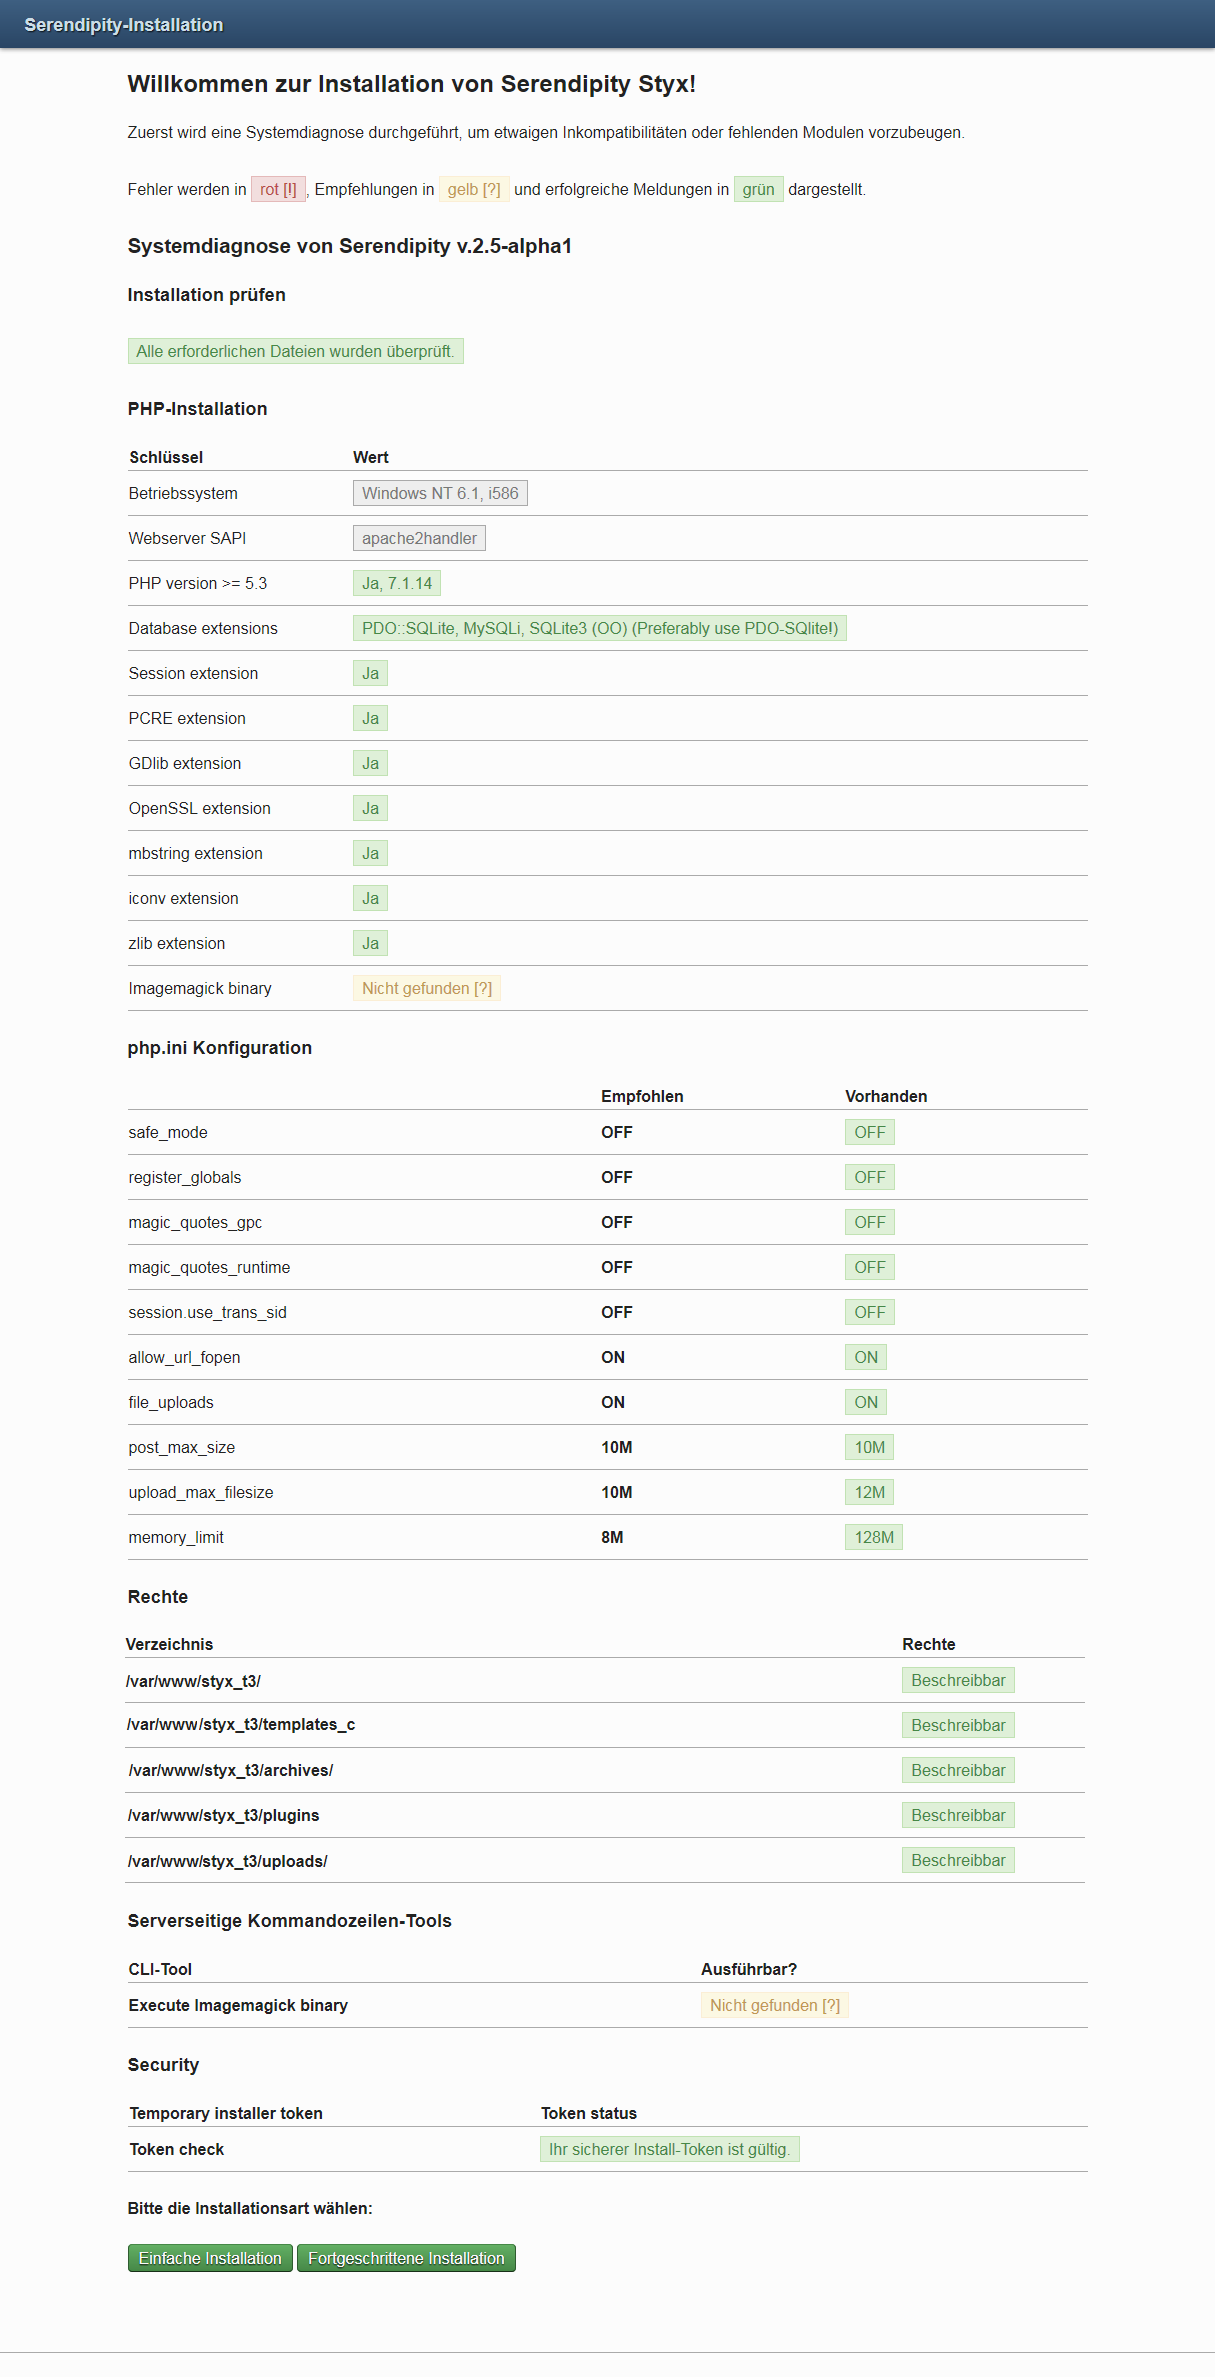
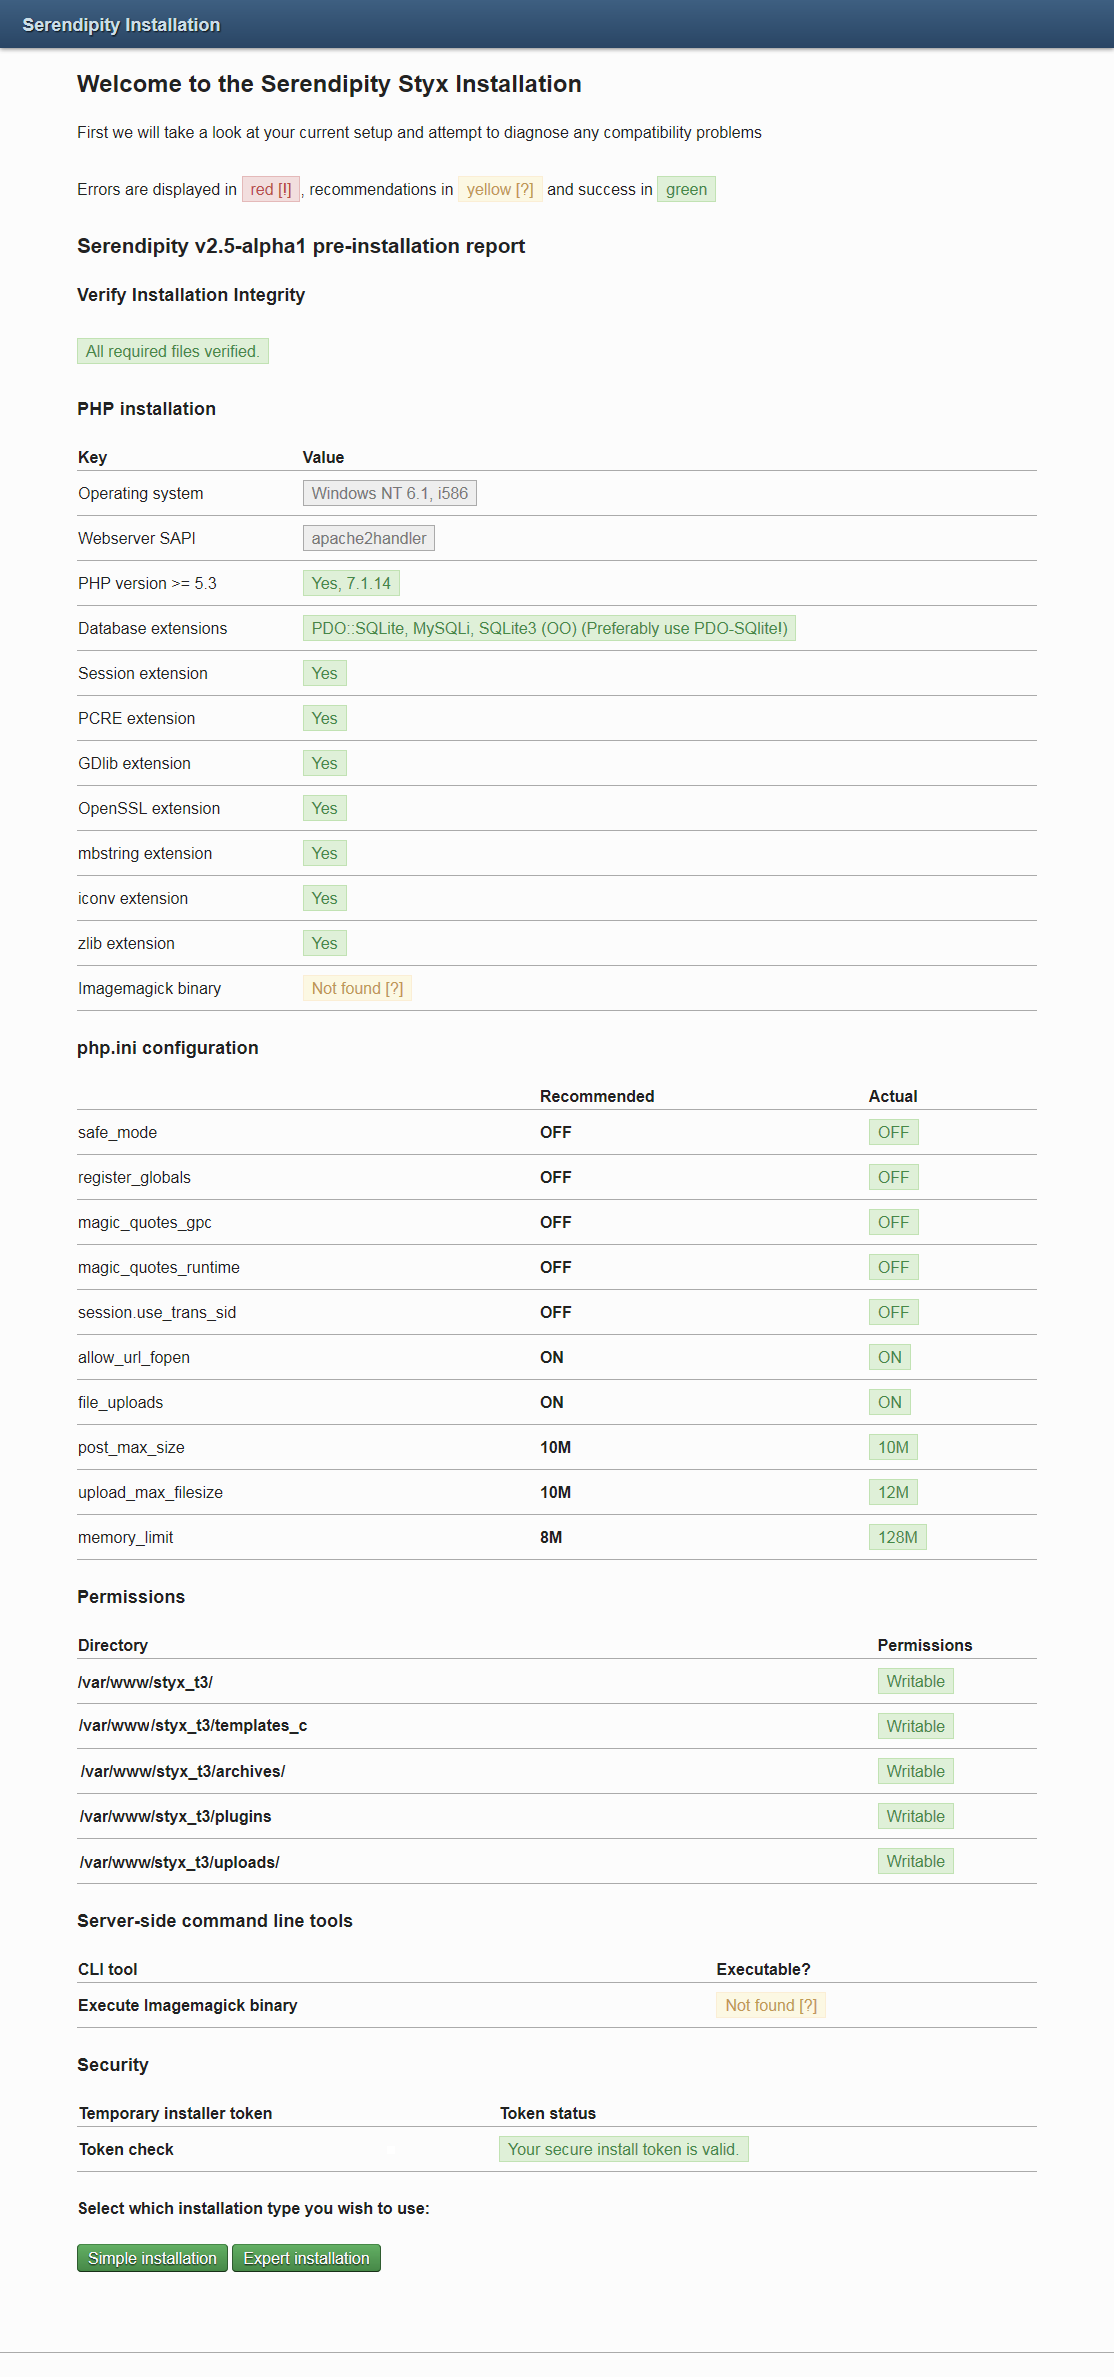
hc: installation - Fixes, typos, figures, extend personal settings

diff --git a/hc/en/installation.html b/hc/en/installation.html
@@ -147,7 +147,7 @@
 <p><strong>Read and follow carefully:</strong></p>
 
 <ol class="boxed" type="a">
-    <li> Manually update the Serendipity Spartacus plugin file with the temporary styx-spartacus-up file (4) to solve some bugs and set the custom plugin load location option to this URL (5).</li>
+    <li> Manually update the Serendipity Spartacus plugin file with the temporary ‘styx-spartacus-up’ file (4) to solve some bugs and set the custom plugin load location option to this URL (5).</li>
     <li> Update the Autoupdater by Spartacus from the new location, currently this is version 1.5.3 or up.</li>
     <li> Click somewhere else and then return to the plugin list page. Select events and search for the installed/updated autoupdater plugin. It now is configurable! The two new options are pre-filled with the origin Serendipity GitHub path. Change both to the new URLs (6) and (7). Version 1.4.0 has this already preset. This is important!</li>
     <li> Next, go to your BACKEND global “Configuration” <span class="icon">→</span> “General Settings” and enable the “autoupdate” option to search for “beta” releases. This as well gives you RC and full release versions.</li>
@@ -224,7 +224,7 @@
 
 <figure id="install-0">
     <img src="/i/h/fresh_install_00.png" alt="Token secured installation" class="content-image">
-    <figcaption>Token secured installation (german browser example)</figcaption>
+    <figcaption>Styx: Token secured installation</figcaption>
 </figure>
 
 <h4 id="docs-requirements">Requirements</h4>
@@ -259,7 +259,7 @@
 
 <h4 id="docs-permissions-on-filesdirectories">Permissions on files/directories</h4>
 
-<p>Very important to Serendipity are the directories <strong>archives</strong>, <strong>templates_c</strong> and <strong>uploads</strong>. The directory <strong>archives</strong> is used to store pregenerated files, the directory <strong>templates_c</strong> will contain automatically compiled HTML templates from the Smarty Templating Engine and the directory <strong>uploads</strong> will contain any media files you upload to your Blog. This means, all three folders will require write access for your webserver.</p>
+<p>Very important to Serendipity are the directories <strong>archives</strong>, <strong>templates_c</strong> and <strong>uploads</strong>. The directory <strong>archives</strong> is used to store pre-generated files, the directory <strong>templates_c</strong> will contain automatically compiled HTML templates from the Smarty Templating Engine and the directory <strong>uploads</strong> will contain any media files you upload to your Blog. This means, all three folders will require write access for your webserver.</p>
 
 <p>PHP usually runs as a specific user that is different from the FTP user account you use to upload files. So, if your FTP user is able to upload files, this does not necessarily mean, that the PHP process will be able to access the same files/directory. Depending on your webservers setup, you might need to change the permissions (CHMOD) of the three mentioned directory to something like <strong>777</strong> (read, write and execute permissions for everyone, meaning “world writable”), <strong>775</strong> (meaning read, write and execute permissions for the owner and the group of the files/directory, but not “everybody”). Which one to use is very specific to your webserver’s setup. Please ask your provider, if you are unsure which permissions you need to use!</p>
 
@@ -277,12 +277,12 @@
 
 <figure id="install-1">
     <img src="/i/h/fresh_install_01.png" alt="First page of the installer" class="content-image">
-    <figcaption>First page of the installer (german browser example)</figcaption>
+    <figcaption>First page of the installer</figcaption>
 </figure>
 
 <p>Fatal problems are shown in red color. The most usual case of a red error is if Serendipity cannot create the directories <strong>templates_c</strong>, <strong>archives</strong> or <strong>uploads</strong>. In this case, please follow the suggestions in the “Permissions on Files/Directories” step of this documentation.</p>
 
-<p>On the bottom of the diagnosis screen, you can choose if you want to perform a “<strong>Simple installation</strong>” or the “<strong>Expert installation</strong>”. Both methods actually perform the same steps; however the “Simple installation” only shows you very few initial configuration options so that you can install Serendipity quickkly. The “Expert installation” will ask you to enter every configuration directive.</p>
+<p>On the bottom of the diagnosis screen, you can choose if you want to perform a “<strong>Simple installation</strong>” or the “<strong>Expert installation</strong>”. Both methods actually perform the same steps; however the “Simple installation” only shows you very few initial configuration options so that you can install Serendipity quickly. The “Expert installation” will ask you to enter every configuration directive.</p>
 
 <p>Since the goal of this document is to show how fast you can install Serendipity, we will only discuss the “Simple installation” right now, so please click on that link and you will see a screen like this:</p>
 
@@ -332,7 +332,7 @@
 
 <h4 id="docs-accessing-your-blog-frontend">Accessing your Blog Frontend</h4>
 
-<p>After the installation, the screen above showed you a link to “Visit your new blog here”. You can click on this, and then you should see your empty Blog like this:</p>
+<p>After the installation, the screen above showed you a link to “Visit your new Blog here”. You can click on this, and then you should see your empty Blog like this:</p>
 
 <figure id="startpage-empty">
     <img src="/i/h/fresh_install_04.png" alt="Index page of an empty Blog" class="content-image">
@@ -365,17 +365,22 @@
 
 <h5 id="docs-frontpage">Frontpage</h5>
 
-<p>The Frontpage currently just shows you the basic page. Here, specific plugins might show you specific output.</p>
+<p>The Backends “Frontpage” - also named the “Dashboard” - normally just shows you the basic page. Here, specific plugins might show you a specific output, which currently are: The last (5) “Comments” and (draft entries) “In Progress”.</p>
 
 <h5 id="docs-personal-settings">Personal Settings</h5>
 
-<p>The button with the three gears on the upper right of the page will lead you to personal settings section. The personal settings section will show all user-specific options to your currently logged-in user. There you can change your username, your password and also the language you want to see for the Admin interface.
-The most important distinct option is whether to use the “WYSIWYG” editor. This will show you a Word-like interface for creating Blog entries. It makes life easy, and if you do not know any HTML at all, you will be very glad about that editor that will allow you to insert images, links and text formatting at ease. This option can also be changed later, if you happen to dislike the WYSIWYG editor, or if you’re missing it.</p>
+<p>The button with the three gears on the upper right of the page will lead you to your personal settings section. The personal settings section will show all user-specific options to your currently logged-in user. There you can change your username, your password and also the language you want to see for the Admin interface.</p>
+
+<p>The most important distinct option is whether to use the “WYSIWYG” editor. This will show you a Word-like interface for creating Blog entries. It makes life easy, and if you do not know any HTML at all, you will be very glad about this editor that will allow you to insert images, links and text formatting at ease. This option can also be changed later, if you happen to dislike the WYSIWYG editor, or if you’re missing it.</p>
+
+<p>Further on, you can set the behaviour of the Dashboard widgets. Default is “ON”, but Styx recommends using it NOT, to allow to reduce this to an informational only widget, much smaller and leaving enough space for additional ‘snapped’ widgets.</p>
+
+<p>Simplified filters reduce some of the extended possibilities of Serendipity. This is a good start for the Beginners, but will not let you recognize some more advanced tools. Take a ride when you are ready!</p>
 
 <figure id="personal-settings">
     <img src="/i/h/fresh_install_07.png" alt="Personal settings" class="content-image">
     <figcaption>Personal settings</figcaption>
-</figure>
+</figure><br>
 
 <h5 id="docs-content">Content</h5>
 
@@ -384,7 +389,7 @@ The most important distinct option is whether to use the “WYSIWYG” editor. T
 <figure id="entry-editor">
     <img src="/i/h/fresh_install_08.png" alt="Entry editor" class="content-image">
     <figcaption>Entry editor</figcaption>
-</figure>
+</figure><br>
 
 <h5 id="docs-media">Media</h5>
 
@@ -393,7 +398,7 @@ The most important distinct option is whether to use the “WYSIWYG” editor. T
 <figure id="upload-form-for-the-media-database">
     <img src="/i/h/fresh_install_09.png" alt="Upload form for the media database" class="content-image">
     <figcaption>Upload form for the media database</figcaption>
-</figure>
+</figure><br>
 
 <h5 id="docs-activity">Activity</h5>
 
@@ -420,7 +425,7 @@ The most important distinct option is whether to use the “WYSIWYG” editor. T
 <figure id="plugin-configuration">
     <img src="/i/h/fresh_install_11.png" alt="Plugin configuration" class="content-image">
     <figcaption>Plugin configuration</figcaption>
-</figure>
+</figure><br>
 
 <h5 id="docs-maintain">Maintenance</h5>
 
@@ -429,7 +434,7 @@ The most important distinct option is whether to use the “WYSIWYG” editor. T
 <figure id="configuration-section">
     <img src="/i/h/fresh_install_13.png" alt="Maintenance section" class="content-image">
     <figcaption>Maintenance section</figcaption>
-</figure>
+</figure><br>
 
 <h4 id="docs-and-what-now">And what next?</h4>
 
